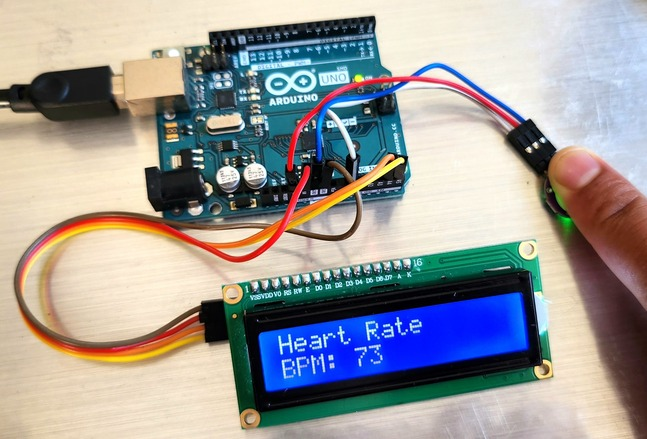
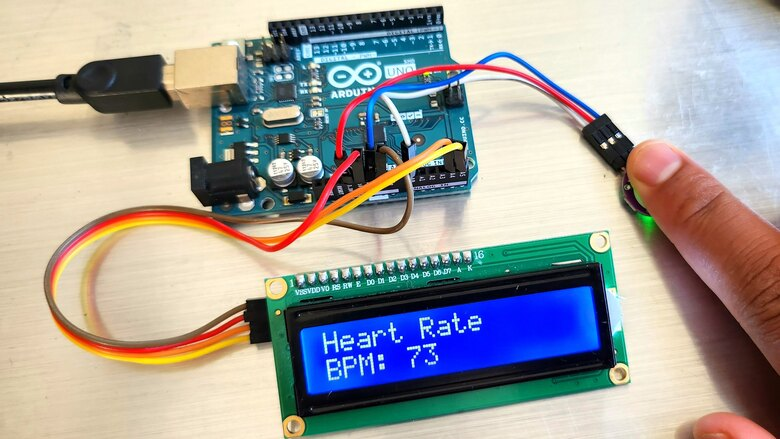
ppppp

diff --git a/src/data/content.js b/src/data/content.js
@@ -10,7 +10,7 @@ export const profile = {
   location: 'Dhaka, Bangladesh',
   email: '[email redacted]',
   phone: '[phone redacted]',
-  heroPhoto: '/photos/hossain.png',
+  heroPhoto: '/photos/Abdullah.png',
   resumeLink: '/Abdullah_Al_Hossain_Resume.pdf',
   social: {
     linkedin: 'https://www.linkedin.com/in/hossain888/',
@@ -262,7 +262,7 @@ export const projects = [
   {
     title: 'Solar-Powered Grid-Tie Inverter',
     tag: 'Power Electronics',
-    image: '/photos/power-grid.png',
+    image: '/photos/grid-tie-solar-inverter-working-principle.webp',
     description:
       'A dual-stage buck–boost inverter architecture simulated and optimized in PSIM, enabling efficient grid synchronization while maximizing solar energy utilization and overall system reliability.',
     tools: ['PSIM', 'Power Electronics', 'Solar Integration'],
@@ -270,7 +270,7 @@ export const projects = [
   {
     title: 'IoT-Based Smart Poultry Farming',
     tag: 'IoT & Automation',
-    image: '/photos/poultry.jpg',
+    image: '/photos/Poltryfarming.jpg',
     description:
       'A connected monitoring system that tracks temperature, humidity, and air quality in real time, automating environmental control and feeding schedules to improve farm efficiency.',
     tools: ['IoT Sensors', 'Automation', 'Embedded Systems'],
@@ -278,7 +278,7 @@ export const projects = [
   {
     title: 'Earthquake Alert System',
     tag: 'Embedded & Data Systems',
-    image: '/photos/earthquake.png',
+    image: '/photos/Earthquake.jpg',
     description:
       'A real-time monitoring and warning system using a Twitter-based burst-detection algorithm, capable of detecting ~M3.5 earthquakes and issuing alerts faster than official channels.',
     tools: ['Signal Processing', 'Social Data', 'Alert Systems'],
@@ -286,7 +286,7 @@ export const projects = [
   {
     title: 'Heart Rate Monitoring System',
     tag: 'Embedded Health Tech',
-    image: '/photos/heart-rate.jpg',
+    image: '/photos/Heart_Rate_Measurement.jpg',
     description:
       'A microcontroller-based device that captures cardiovascular data in real time and applies signal-processing algorithms to derive accurate heart rate readings for continuous, low-power monitoring.',
     tools: ['Microcontroller', 'Signal Processing', 'Sensors'],
@@ -294,7 +294,7 @@ export const projects = [
   {
     title: 'Single Phase Agri Inverter (Center-Tapped Transformer)',
     tag: 'Power Electronics',
-    image: '/photos/inverter.jpg',
+    image: '/photos/Center-Tapped-Transformers.webp',
     description:
       'An inverter design using a center-tapped transformer topology, developed for agricultural applications and presented at the 2025 STI Conference.',
     tools: ['Inverter Design', 'Transformer Topology', 'Power Conversion'],
@@ -302,7 +302,7 @@ export const projects = [
   {
     title: 'Micro-strip Patch Antenna (2.4 GHz)',
     tag: 'RF & Communications',
-    image: '/photos/antenna.jpg',
+    image: '/photos/Microchip.jpg',
     description:
       'A patch antenna designed and simulated in CST Studio Suite, with dimensions and substrate materials optimized for gain, bandwidth, and radiation pattern in the 2.4 GHz band.',
     tools: ['CST Studio Suite', 'RF Design', 'Electromagnetics'],
@@ -310,7 +310,7 @@ export const projects = [
   {
     title: 'Smart Home Temperature Control System',
     tag: 'Embedded Systems',
-    image: '/photos/temp-control.jpg',
+    image: '/photos/Smarthome temperateure control.png',
     description:
       'A firmware-driven climate control system built with PIC C Compiler and validated in Proteus, dynamically adjusting heating and cooling based on live sensor data.',
     tools: ['PIC C Compiler', 'Proteus', 'Sensors & Actuators'],
@@ -326,7 +326,7 @@ export const projects = [
   {
     title: 'IoT Home Automation & Security System',
     tag: 'IoT & Automation',
-    image: '/photos/security.webp',
+    image: '/photos/smart-home-security.jpg',
     description:
       'A microcontroller-based home automation platform integrating motion detectors, door/window sensors, and cameras for remote monitoring and intrusion detection.',
     tools: ['Microcontroller', 'IoT', 'Security Sensors'],
@@ -334,7 +334,7 @@ export const projects = [
   {
     title: 'RC Car (Arduino)',
     tag: 'Robotics',
-    image: '/photos/rc-car.jpg',
+    image: '/photos/RC-Car.jpg',
     description:
       'A wireless remote-controlled car built on Arduino, combining motor control, sensor integration, and wireless communication as a hands-on introduction to robotics and automation.',
     tools: ['Arduino', 'Robotics', 'Wireless Control'],
@@ -342,7 +342,7 @@ export const projects = [
   {
     title: 'Water Level Indicator — District Champion',
     tag: 'Early Engineering',
-    image: '/photos/water-level.jpg',
+    image: '/photos/water-level-indecator.JPG',
     description:
       'A liquid-level measurement device built in grade nine, earning recognition as Division Champion — an early showcase of problem-solving and engineering creativity.',
     tools: ['Sensors', 'Basic Electronics'],